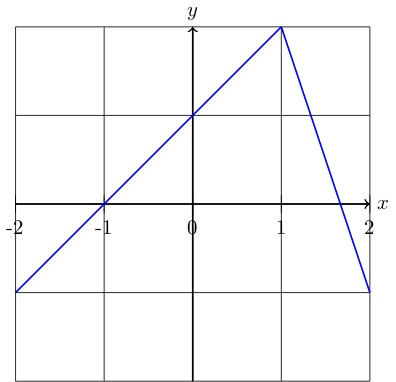
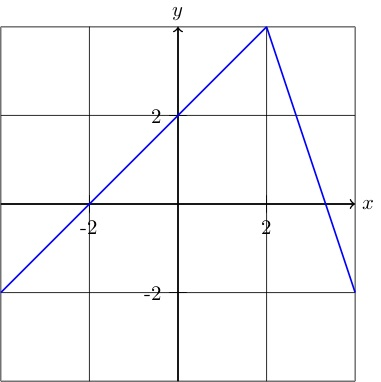
2-3

Changed region(s): [[0.0, 0.0, 0.9816, 1.0], [0.3753, 0.7487, 0.4331, 0.8063]]

diff --git a/html/Calculus/images/2-3-quottable.tex b/html/Calculus/images/2-3-quottable.tex
@@ -14,7 +14,8 @@
     \draw[->,thick] (-2,0) -- (2,0) node[right] {$x$};
     \draw[->,thick] (0,-2) -- (0,2) node[above] {$y$};
     \draw[step=1.0,black,thin] (-2,-2) grid (2,2);
-\foreach \x in {-2,-1,0,1,2} \draw (\x,0.1) -- (\x, -0.1) node[below] {\x};
+\foreach \x in {-2,2} \draw (\x/2,0.1) -- (\x/2, -0.1) node[below] {\x};
+\foreach \y in {-2,2} \draw (0.1,\y/2) -- (-0.1, \y/2) node[left] {\y};
 
 \draw[-,color=blue,smooth,domain=-2:1,thick] plot(\x,{\x+1});
 \draw[-,color=blue,smooth,domain=1:2,thick] plot(\x,{-3*\x+5});
